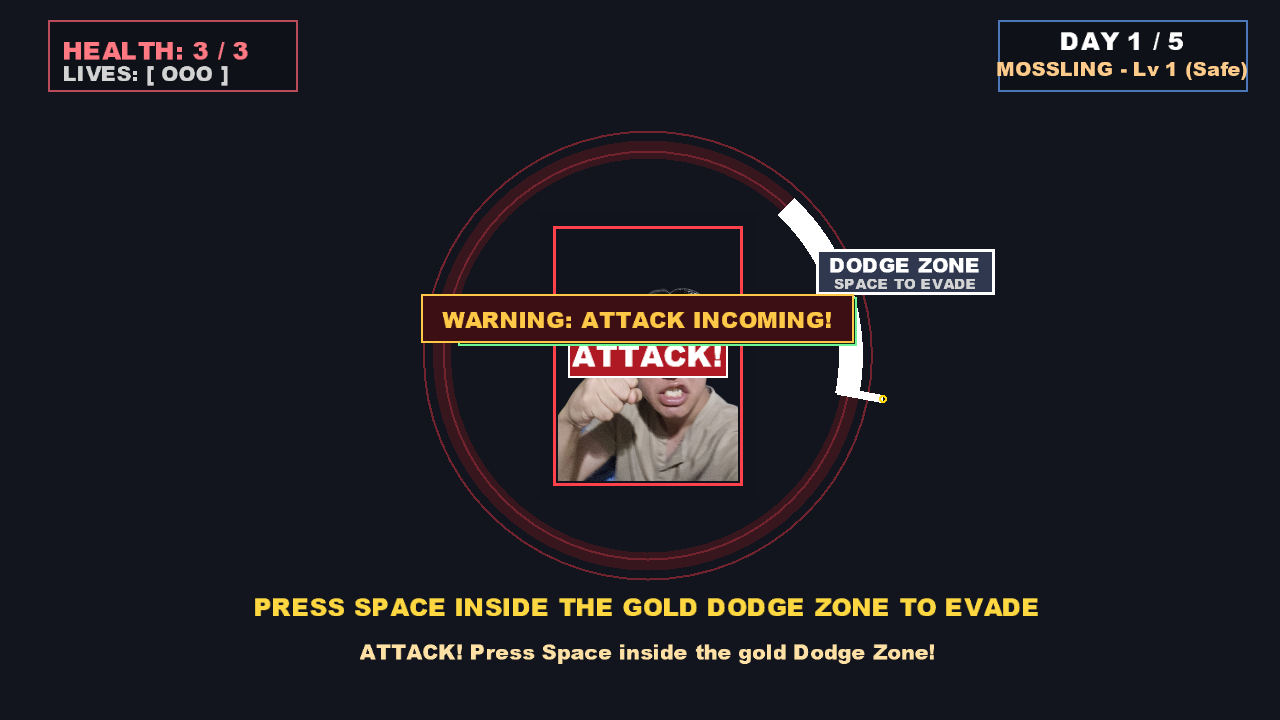
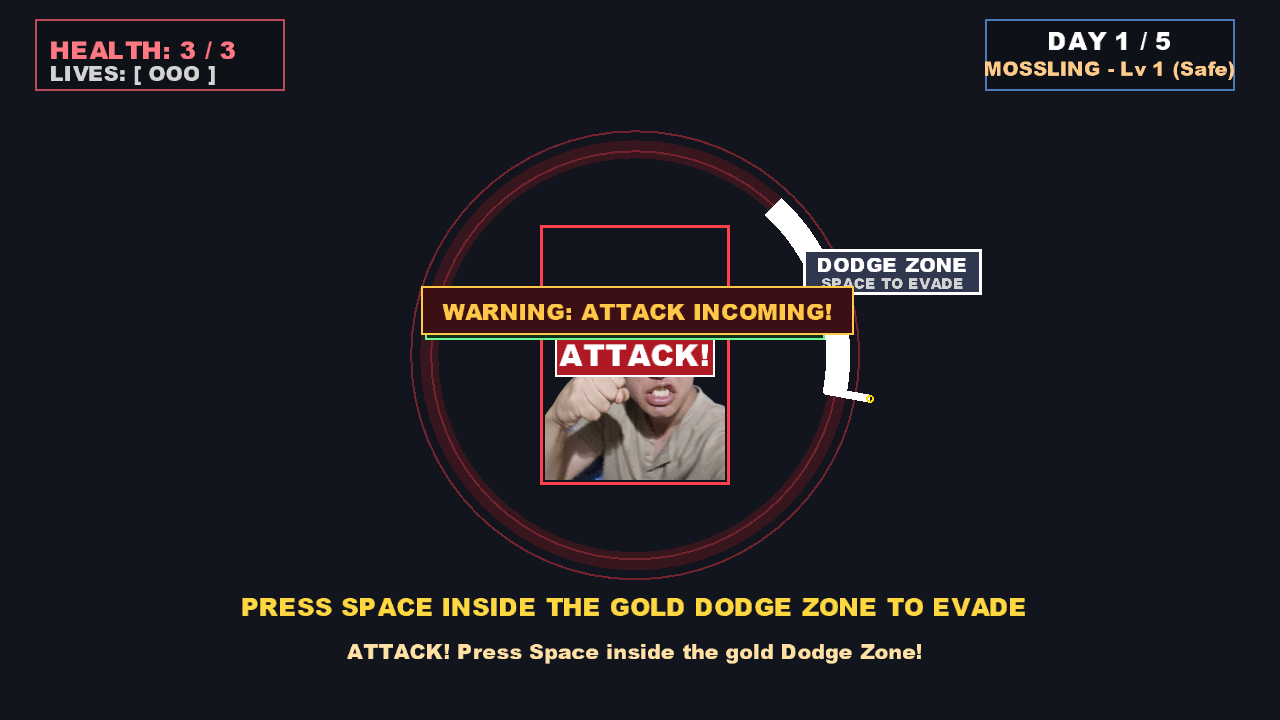
feat(qte): reset wheel on timeout without miss penalty or damage

diff --git a/CoPoject/BePal.Tests/Screens/CareQteScreenTests.cs b/CoPoject/BePal.Tests/Screens/CareQteScreenTests.cs
@@ -11,7 +11,7 @@ namespace BePal.Tests.Screens;
 public class CareQteScreenTests
 {
     [Fact]
-    public void Timeout_InflictsOneDamage_AndSpawnsUnifiedMissTag_AndStaysInQte()
+    public void Timeout_DoesNotInflictDamage_AndDoesNotSpawnMissTag_AndResetsInQte()
     {
         // Arrange
         var run = new PrototypeRun();
@@ -25,10 +25,11 @@ public class CareQteScreenTests
         // Act: Advance time past multi-slot zone duration (5.5s)
         screen.Update(new GameTime(TimeSpan.Zero, TimeSpan.FromSeconds(6.0f)));
 
-        // Assert: 1 damage taken, unified miss tag spawned, stayed on CareQteScreen
-        Assert.Equal(2, run.Health);
-        Assert.Contains(context.Tags, t => t.Text == "MISSED! -1 HP");
+        // Assert: No damage taken, no miss tag spawned, stayed on CareQteScreen, zone reset
+        Assert.Equal(3, run.Health);
+        Assert.DoesNotContain(context.Tags, t => t.Text.Contains("MISSED"));
         Assert.IsType<CareQteScreen>(manager.CurrentScreen);
+        Assert.False(screen.Zone.IsExpired);
     }
 
     [Fact]
@@ -41,8 +42,8 @@ public class CareQteScreenTests
         var screen = new CareQteScreen(context);
         manager.SetScreen(screen, useTransition: false);
 
-        // Dead zone angle (e.g. PI/4 is midway between 0 and PI/2)
-        screen.Zone.NeedleAngle = MathF.PI / 4f;
+        // Dead zone angle (0.9*PI is midway between 0.7*PI and 1.1*PI, guaranteeing empty space)
+        screen.Zone.NeedleAngle = 0.9f * MathF.PI;
         Assert.Null(screen.Zone.GetHoveredSlot());
 
         // Act
@@ -101,7 +102,7 @@ public class CareQteScreenTests
         manager.SetScreen(screen, useTransition: false);
 
         // Act: Dead zone hit reduces HP from 1 to 0
-        screen.Zone.NeedleAngle = MathF.PI / 4f;
+        screen.Zone.NeedleAngle = 0.9f * MathF.PI;
         screen.ResolveCare();
 
         // Assert: Forced retreat triggered

diff --git a/CoPoject/BePal/Screens/CareQteScreen.cs b/CoPoject/BePal/Screens/CareQteScreen.cs
@@ -84,7 +84,8 @@ public sealed class CareQteScreen : IScreen
 
         if (_zone.IsExpired)
         {
-            HandleMiss("The timing window expired! Lost 1 Health.");
+            ResetQte();
+            _context.Message = "The timing window expired. A new opportunity appeared.";
             return;
         }
 
